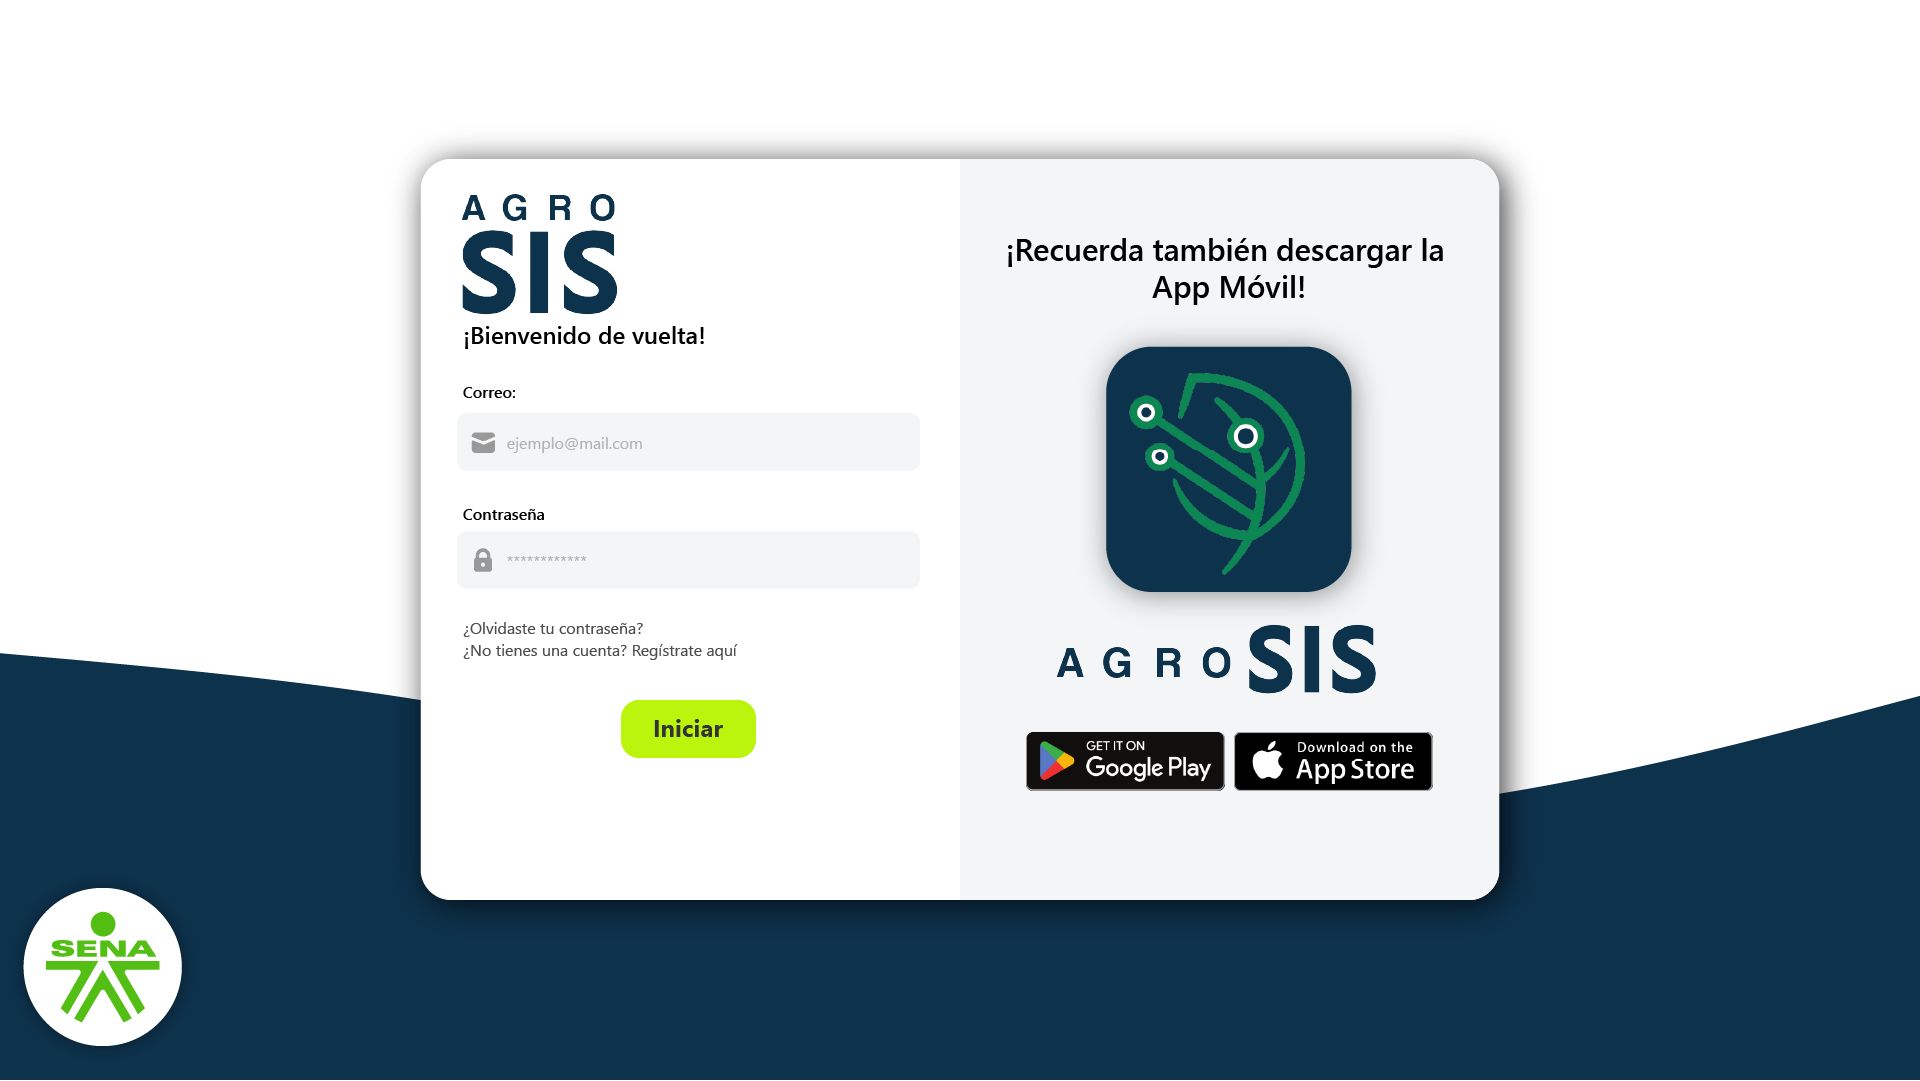
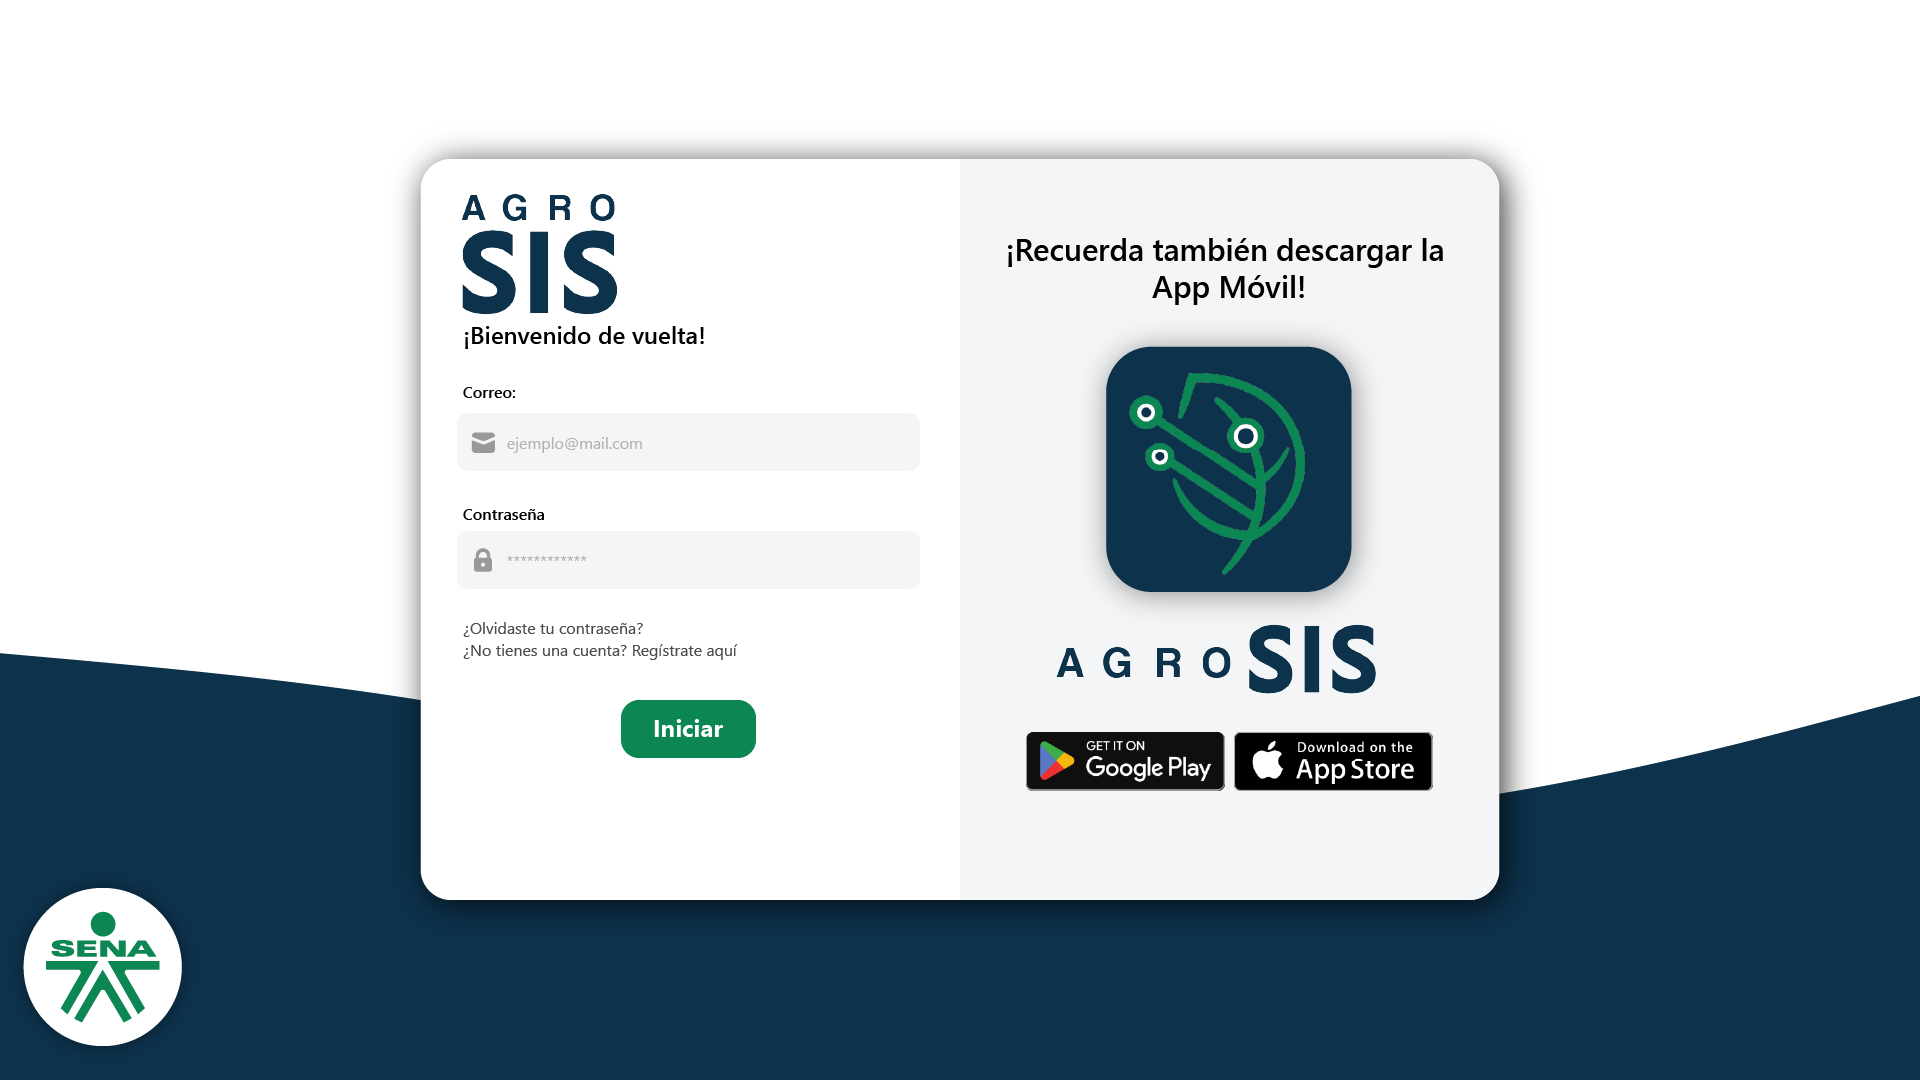
Finalizacion de login.html y enlace con index.html

Changed region(s): [[0.0312, 0.8242, 0.0938, 0.9463], [0.3125, 0.6411, 0.4062, 0.7021]]

diff --git a/login.html b/login.html
@@ -4,14 +4,19 @@
     <meta charset="UTF-8">
     <meta name="viewport" content="width=device-width, initial-scale=1.0">
     <title>Login | AgroSis</title>
-    <link rel="icon" href="img/icon/favicon.png">
+    <link rel="icon" href="img/favicon.png">
     <link rel="stylesheet" href="css/bootstrap.min.css">
     <link rel="stylesheet" href="css/login.css">
     <script src="js/bootstrap.bundle.min.js"></script>
 </head>
 <body>
+    <!--Fondo Wave-->
+    <div class="backgroundWave">
+        <img src="img/login/wave.png" width="100%">
+    </div>
+    <img src="img/login/senaIcon.png" class="senaIcon">
     <!--Caja Inicio sesión-->
-    <div class="container loginBox">
+    <div class="container loginBox my-5">
 
         <div class="row">
 
@@ -19,7 +24,7 @@
             <div class="col-6">
                 <div class="margenLogin">
                     <div class="logoLeft">
-                        <img src="img/logoTexto.png" width="110px">
+                        <img src="img/login/logoTexto.png" width="110px">
                         <h6>¡Bienvenido de vuelta!</h6>
                     </div>
                     <div class="formulario">
@@ -33,14 +38,36 @@
                             <label>Contraseña:</label>
                             <input type="text" name="" class="form-control" placeholder="************">
                         </div>
-
+                        <div class="forgotPass">
+                            <a href=""><p>¿Olvidaste tu contraseña?</p></a>
+                            <p>¿No tienes una cuenta? <a href="">Regístrate aquí.</a></p>
+                        </div>
+                        <div class="d-flex justify-content-center">
+                            <a href="index.html"><button class="loginButton">Iniciar</button></a>
+                        </div>
                     </div>
                 </div>
             </div>
 
             <!--Publicidad-->
-            <div class="col-6">
-                Espacio Publicitario
+            <div class="col-6 publicityBox">
+                <div class="my-5">
+                    <!--Texto y logo de App movil-->
+                    <h4 class="text-center">¡Recuerda también descargar la App Móvil!</h4>
+                    <div class="androidLogo">
+                        <img src="img/login/androidLogo.png" width="100%">
+                    </div>
+                    <div class="d-flex justify-content-center my-3">
+                        <img src="img/login/logoTexto2.png" width="70%">
+                    </div>
+
+                    <!--Get it on PlayStore and AppStore-->
+                    <div class="d-flex justify-content-center my-4 downloadIcons">
+                        <img src="img/login/googlePlay.png" width="40%" alt="">
+                        <img src="img/login/appStore.png" width="40%" alt="">
+                    </div>
+
+                </div>
             </div>
 
         </div>

diff --git a/css/login.css b/css/login.css
@@ -6,12 +6,21 @@ p{
     margin: 0;
     padding: 0;
 }
+a{
+    text-decoration: none;
+    color: rgb(0, 0, 0);
+    transition: all .5s;
+}
+a:hover{
+    color: rgb(0, 200, 255);
+}
 /*Contenedor Login y Publicidad*/
 .loginBox{
-    margin-top: 16.4vh;
+    background-color: white;
     width: 56%;
     border-radius: 20px;
-    background-color: rgb(255, 255, 255);
+    min-height: 78vh;
+    box-shadow: 0 0 20px rgba(0, 0, 0, 0.5);
 }
 .margenLogin{
     margin-left: 1vw;
@@ -28,6 +37,8 @@ label{
     font-size: 12px;
     font-weight: 600;
 }
+
+/*Formulario*/
 .form-control{
     background-color: #f5f5f5;
 }
@@ -37,4 +48,48 @@ label{
 }
 .formulario > div{
     margin-bottom: 7%;
+}
+.forgotPass{
+    font-size: 12px;
+}
+.loginButton{
+    padding: 8px 25px 8px 25px;
+    border-radius: 10px;
+    font-weight: 700;
+    border: none;
+    background-color: #0c8652;
+    color: white;
+    transition: all .25s;
+}
+.loginButton:hover{
+    background-color: #09633c;
+}
+
+/*Publicidad - Mitad derecha*/
+.publicityBox{
+    background-color: #f5f5f5;
+    height: 78vh;
+    border-top-right-radius: 20px;
+    border-bottom-right-radius: 20px;
+}
+.androidLogo{
+    width: 54%;
+    margin: 0 auto;
+}
+.downloadIcons > img{
+    margin: 0 5px 0 5px;
+}
+
+/*Fondo*/
+.backgroundWave{
+    z-index: -1;
+    position: absolute;
+    width: 100%;
+    bottom: 0%;
+}
+.senaIcon{
+    position: fixed;
+    width: 8%;
+    bottom: 5%;
+    left: 2%;
 }

diff --git a/index.html b/index.html
@@ -6,7 +6,7 @@
     <title>Home | AgroSis</title>
     <link rel="stylesheet" href="css/bootstrap.min.css">
     <link rel="stylesheet" href="css/index.css">
-    <link rel="icon" href="img/icon/favicon.png">
+    <link rel="icon" href="img/favicon.png">
     <script src="js/bootstrap.bundle.min.js"></script>
   </head>
   <body>
